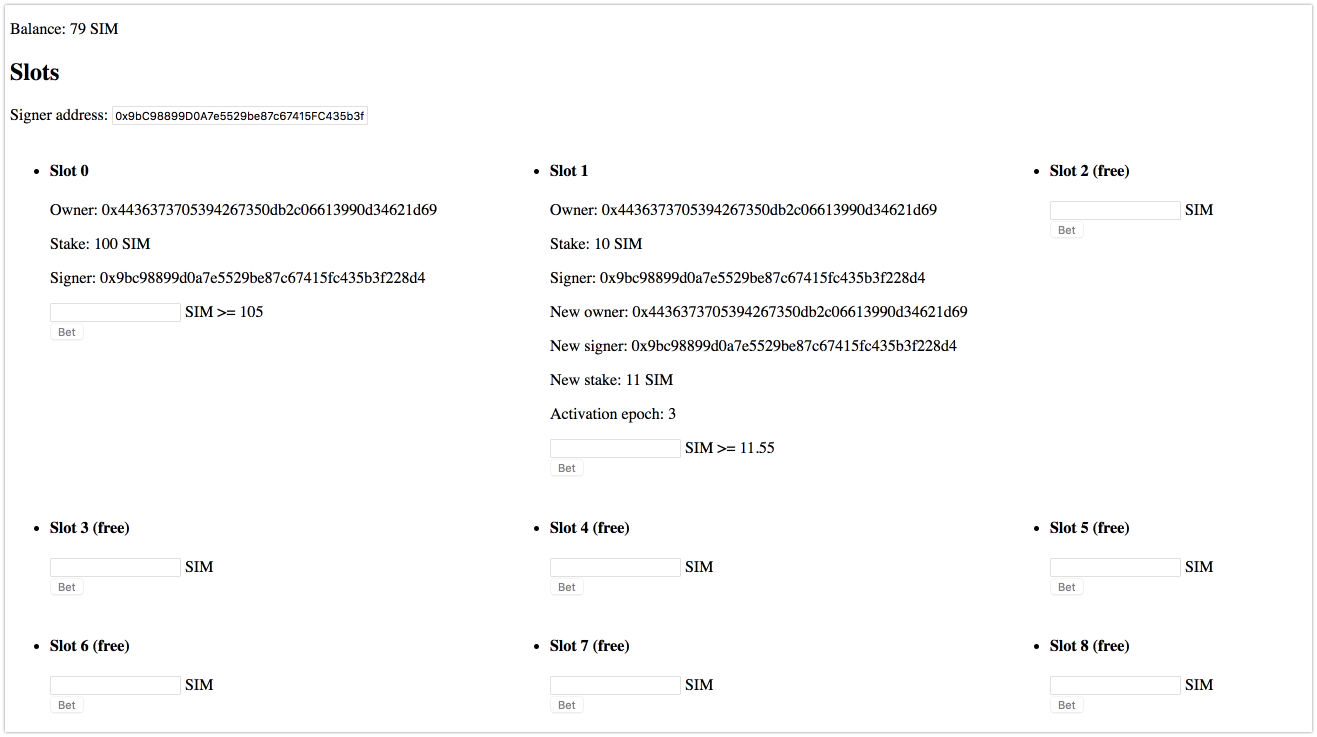
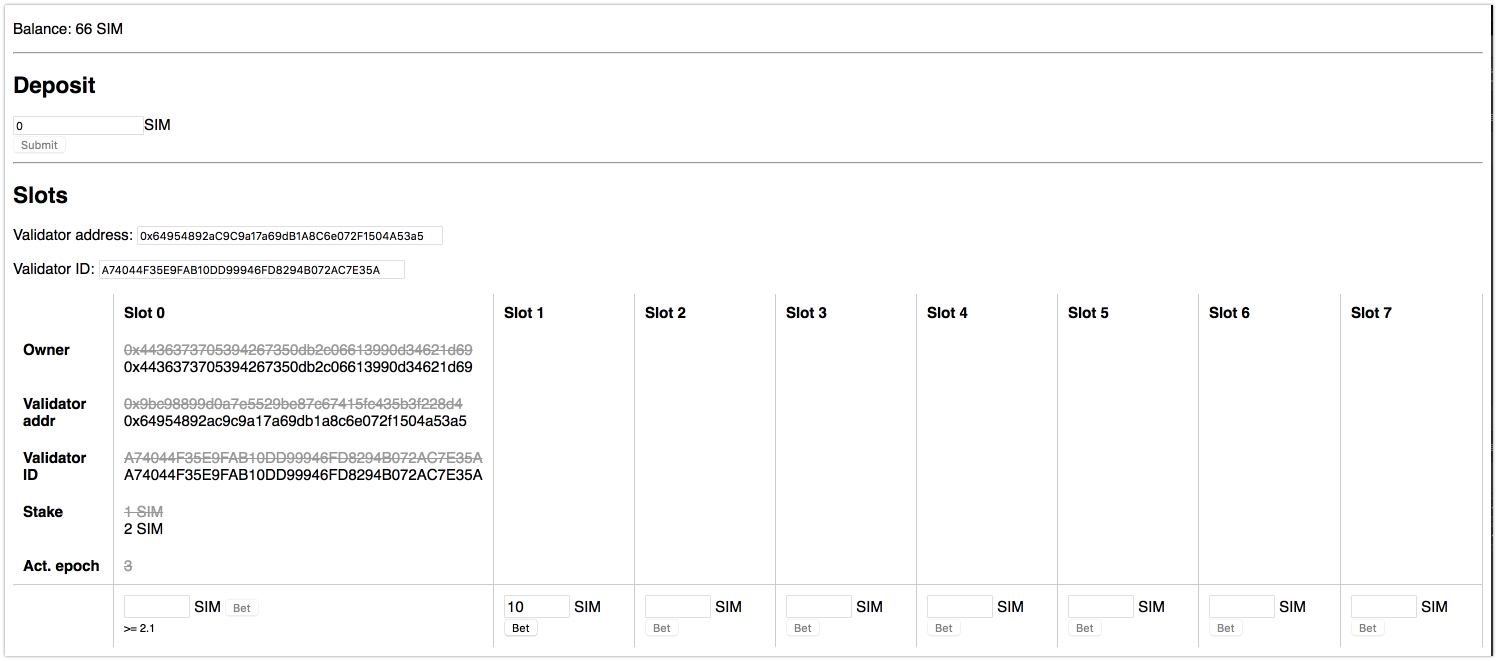
Update REAMDE

diff --git a/README.md b/README.md
@@ -1,10 +1,11 @@
-# Node UI
+# UI for PARSEC Labs plasma bridge contract
 
 ![Alt text](screenshot.png)
 
 You can:
 
-- View and by slots
+- View and buy slots
+- Make deposit
 - ...
 
 ## Install
